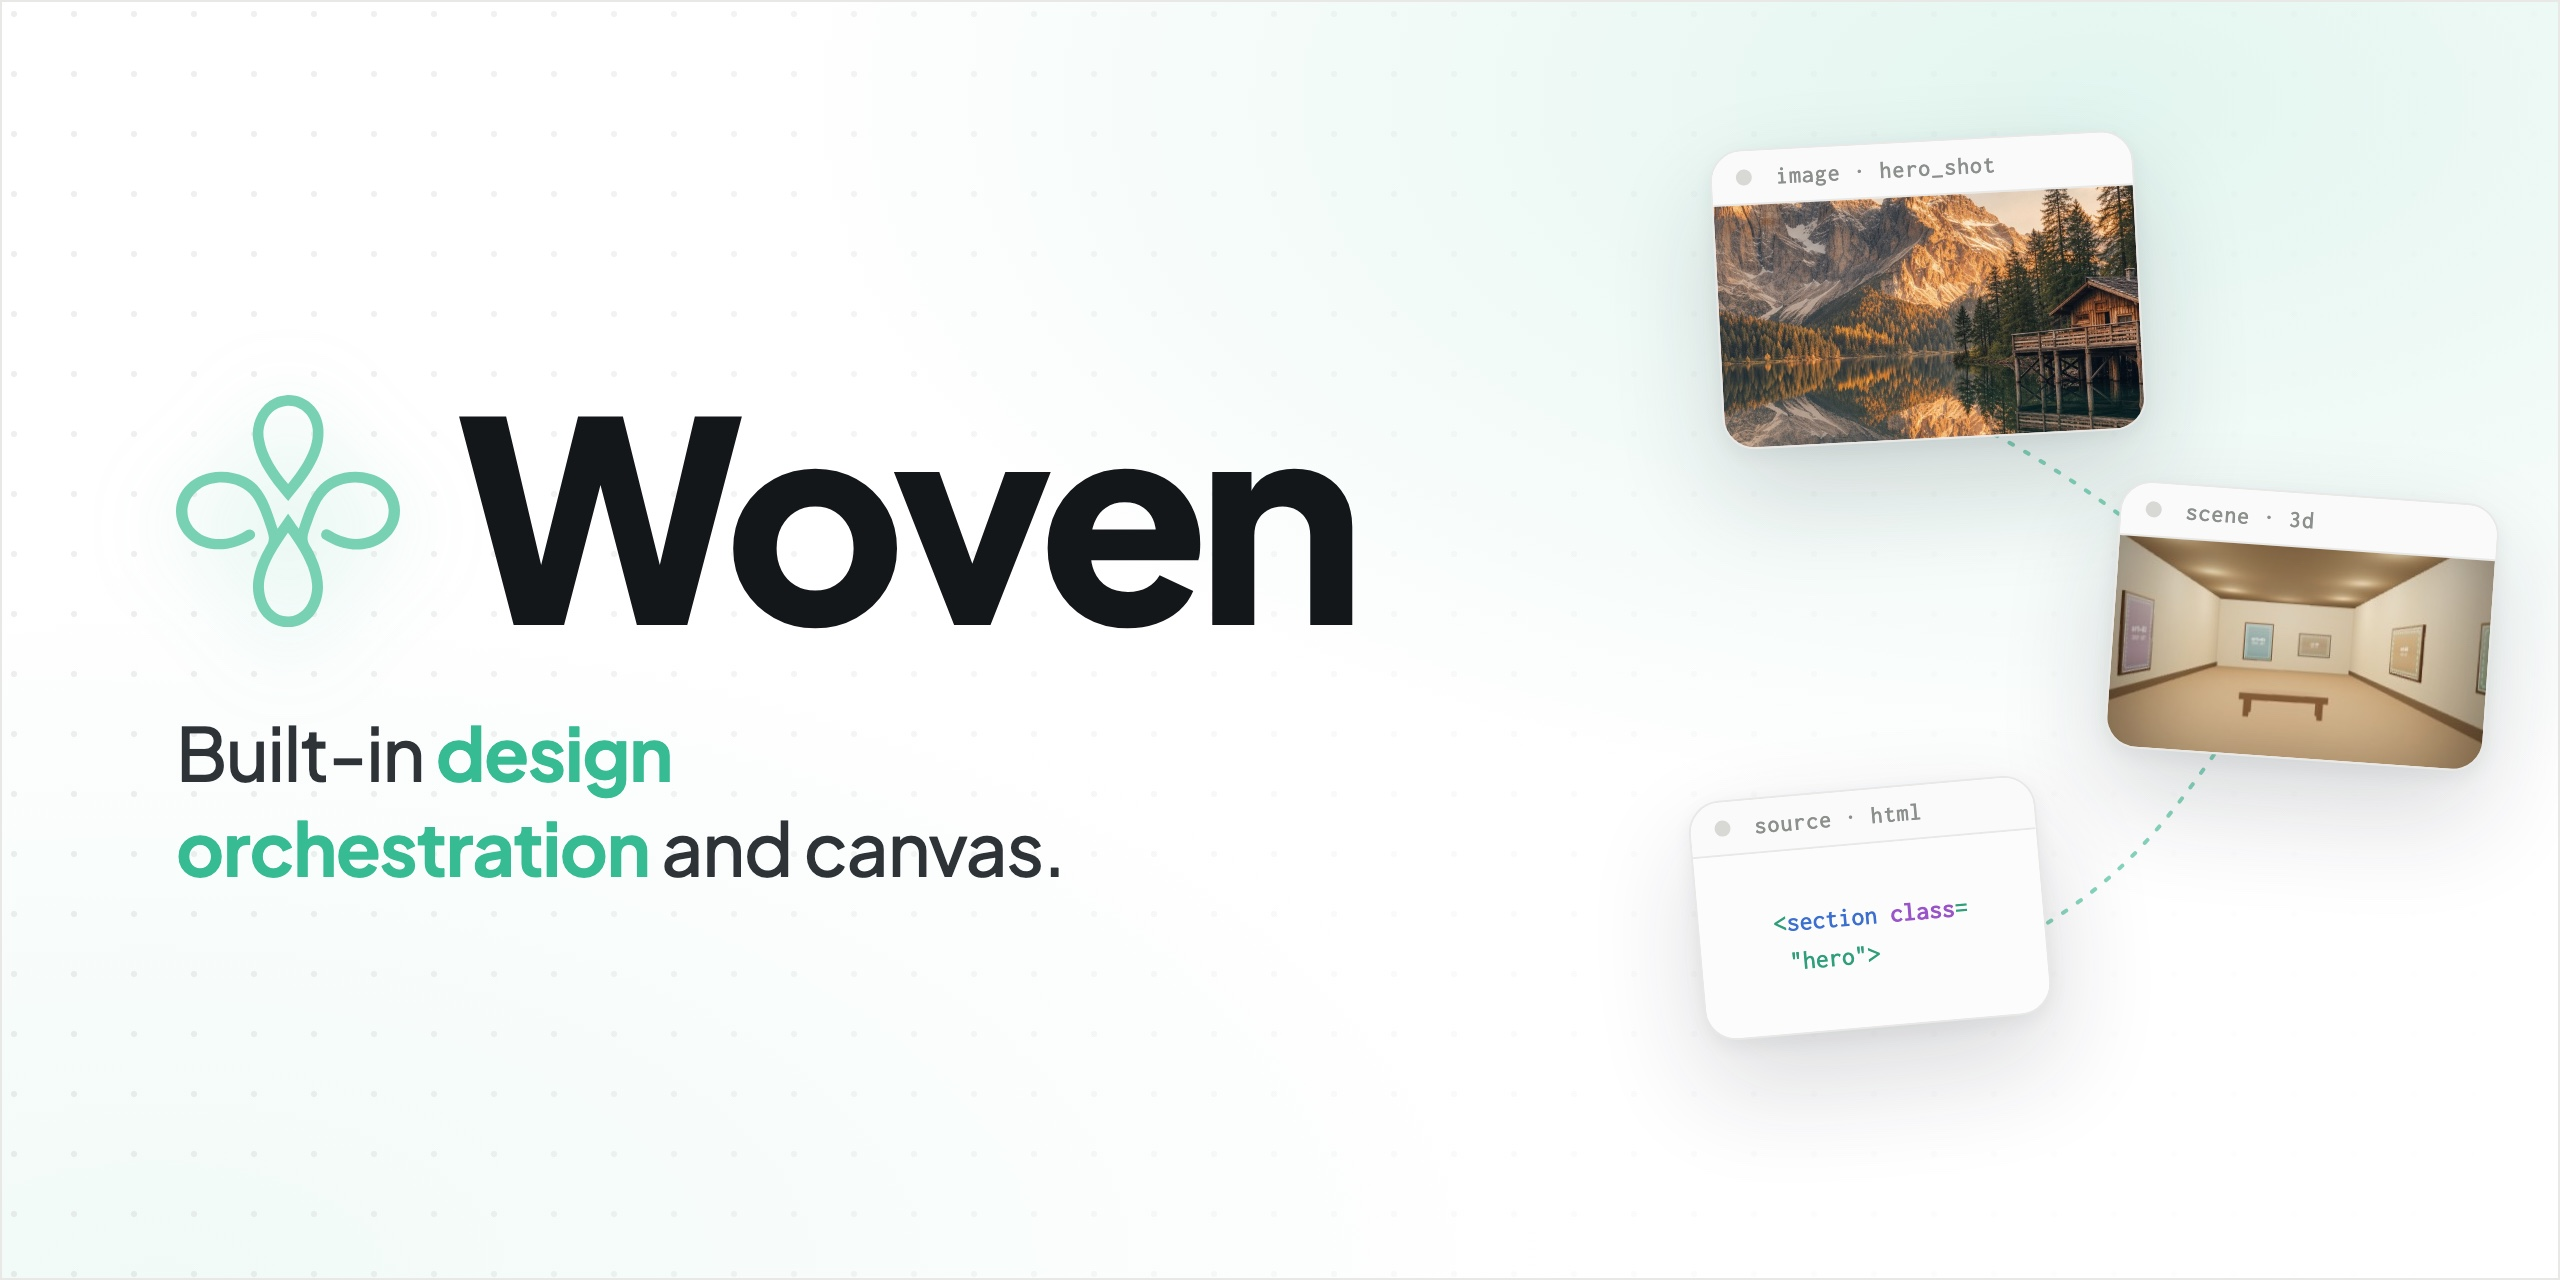
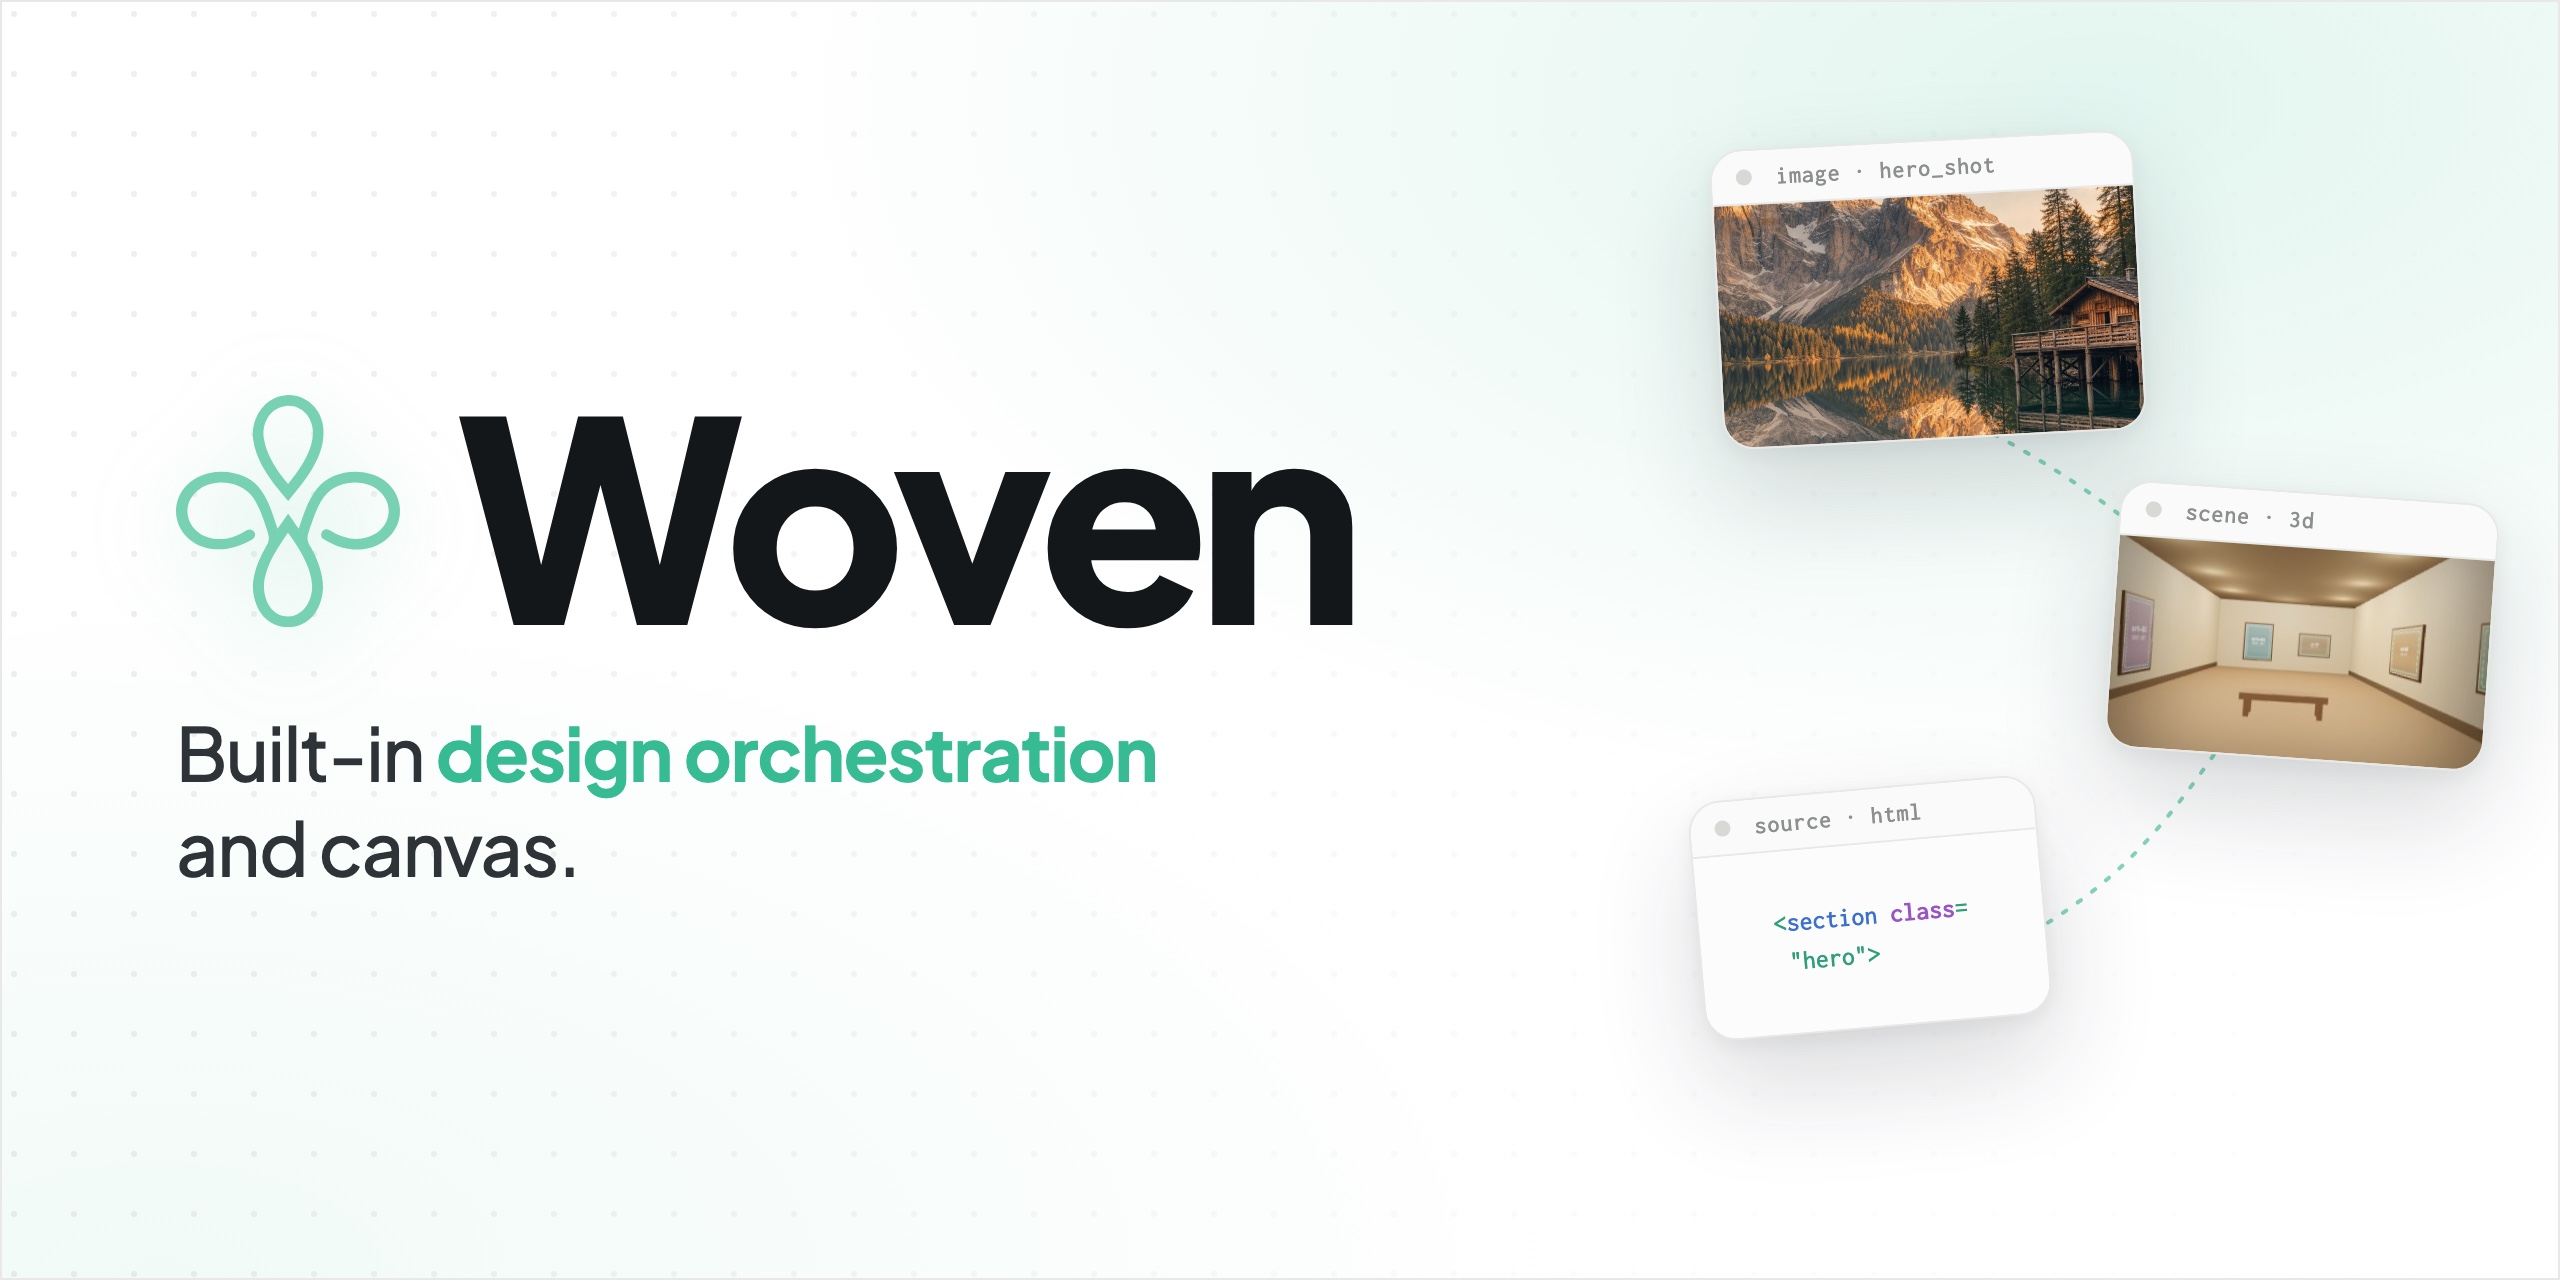
docs: keep 'design orchestration' on one line in social preview

Changed region(s): [[0.0625, 0.5625, 0.4688, 0.6875]]

diff --git a/docs/woven-social-preview.html b/docs/woven-social-preview.html
@@ -55,11 +55,10 @@ body{
   font-size:37px;
   line-height:1.28;
   color:#2E3338;
-  max-width:560px;
-  text-wrap:balance;
+  max-width:680px;
   letter-spacing:-0.017em;
 }
-.tag b{color:var(--green);font-weight:700}
+.tag b{color:var(--green);font-weight:700;white-space:nowrap}
 
 /* right: floating canvas nodes */
 .canvas{
@@ -115,7 +114,7 @@ body{
         </svg>
         <div class="word">Woven</div>
       </div>
-      <div class="tag">Built-in <b>design orchestration</b> and canvas.</div>
+      <div class="tag">Built-in <b>design orchestration</b><br>and canvas.</div>
     </div>
   </div>
 
